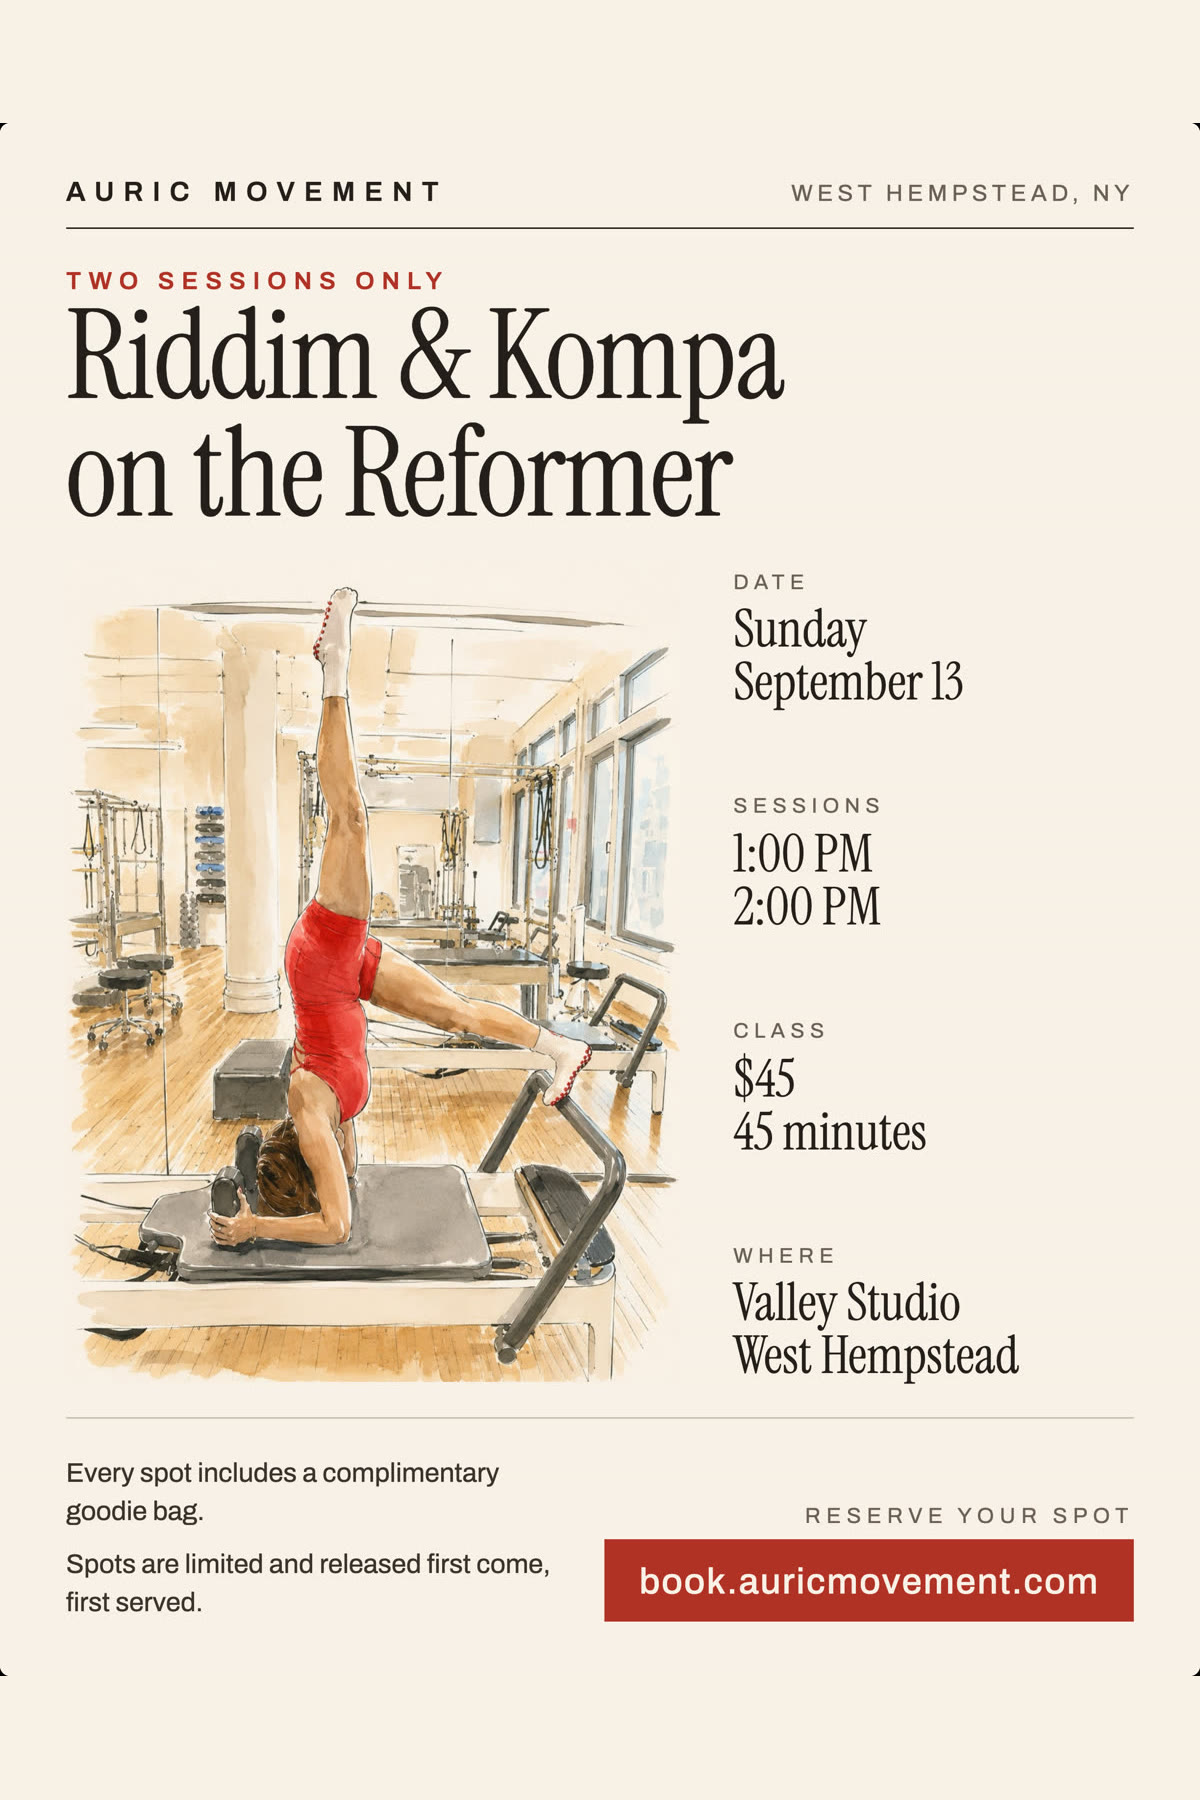
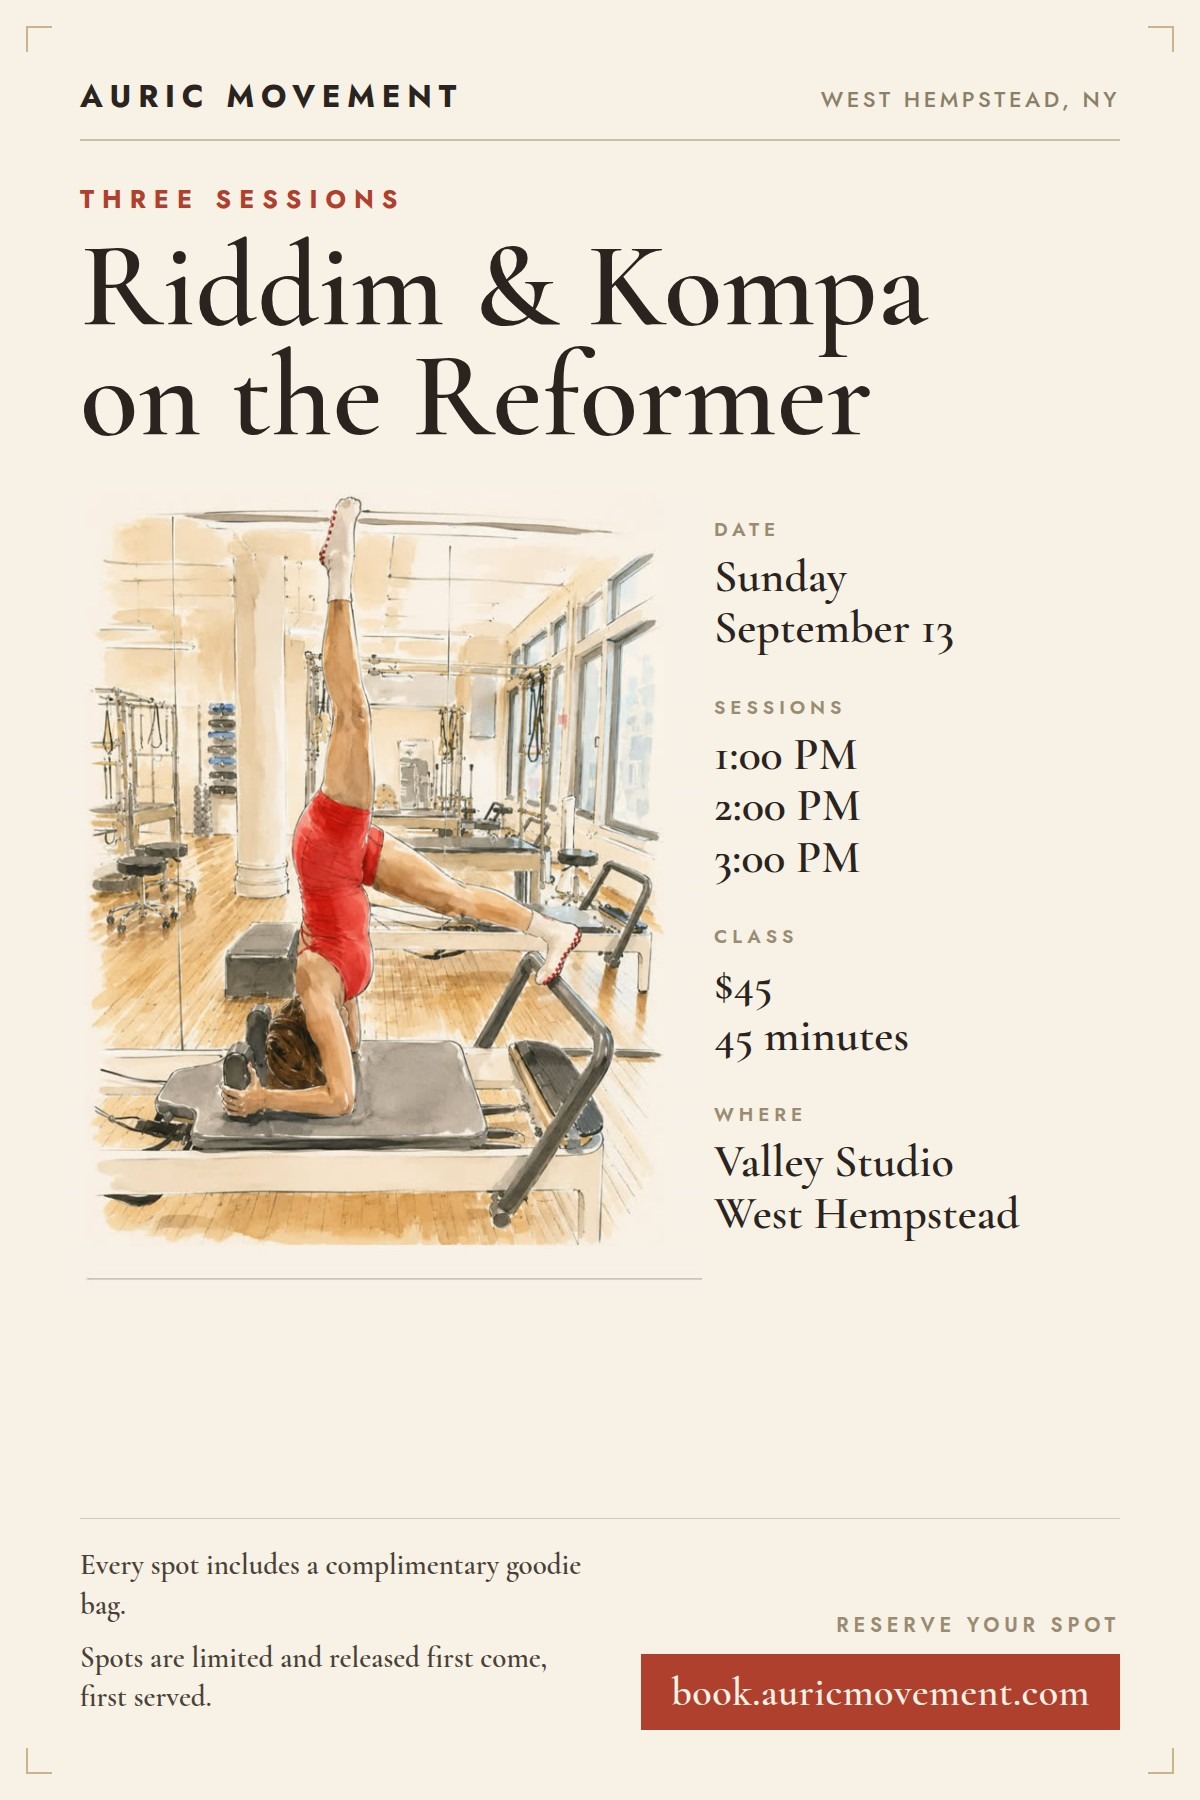
Sept 13 reformer: add 3 PM, un-sell-out, restore to "Next Up" (#306)
The 3 PM session opened the West Hempstead event back up, so:
- Remove is-sold-out + data-soldout from the Sept 13 card (drops the
  "Sold Out" overlay and lets the "Next up" spotlight feature it again as
  the soonest bookable event).
- Update the card sub-text to "1, 2 & 3 PM".
- Regenerate the flyer image (reformer-flier-card.jpg/.webp) to read
  "THREE SESSIONS · 1:00 / 2:00 / 3:00 PM" — rebuilt in the brand fonts
  (Cormorant Garamond + Jost) reusing the original watercolor; bump
  cache-buster to v3.

Claude-Session: https://claude.ai/code/session_01C5C3S2hPFNYWpceXrqPaqV

diff --git a/index.html b/index.html
@@ -2901,18 +2901,18 @@
       </button>
 
       <!-- Reformer Pilates — Sept 13. Opens a time-picker overlay with Stripe buy buttons. -->
-      <button type="button" id="event-card-reformer" class="bq-event scroll-reveal is-sold-out" data-event-date="2026-09-13" data-event-name="Reformer Pilates" data-location="long-island" data-soldout="true">
+      <button type="button" id="event-card-reformer" class="bq-event scroll-reveal" data-event-date="2026-09-13" data-event-name="Reformer Pilates" data-location="long-island">
         <div class="bq-event-photo">
           <picture>
-            <source srcset="reformer-flier-card.webp?v=2" type="image/webp">
-            <img src="reformer-flier-card.jpg?v=2" alt="Riddim &amp; Kompa on the Reformer &#8212; Sunday, September 13th at Valley Studio, West Hempstead, NY &#183; $45, complimentary goodie bag" loading="lazy" decoding="async">
+            <source srcset="reformer-flier-card.webp?v=3" type="image/webp">
+            <img src="reformer-flier-card.jpg?v=3" alt="Riddim &amp; Kompa on the Reformer &#8212; Sunday, September 13th at Valley Studio, West Hempstead, NY &#183; $45, complimentary goodie bag" loading="lazy" decoding="async">
           </picture>
           <div class="bq-event-status" aria-hidden="true">Sold Out</div>
         </div>
         <div class="bq-event-date">09.13.26 &#183; Riddim &amp; Kompa</div>
         <div class="bq-event-name">Riddim &amp; Kompa <em>on the Reformer</em></div>
         <div class="bq-event-loc">West Hempstead, NY</div>
-        <div class="bq-event-sub">Sun &#183; 1 &amp; 2 PM (45 min) &#183; $45 &#183; Valley Studio, West Hempstead NY</div>
+        <div class="bq-event-sub">Sun &#183; 1, 2 &amp; 3 PM (45 min) &#183; $45 &#183; Valley Studio, West Hempstead NY</div>
         <div class="bq-event-raffle">&#127903; Prize drawing &#183; win a 4-class package</div>
         <span class="bq-event-link">Reserve <span aria-hidden="true">&#8594;</span></span>
       </button>
